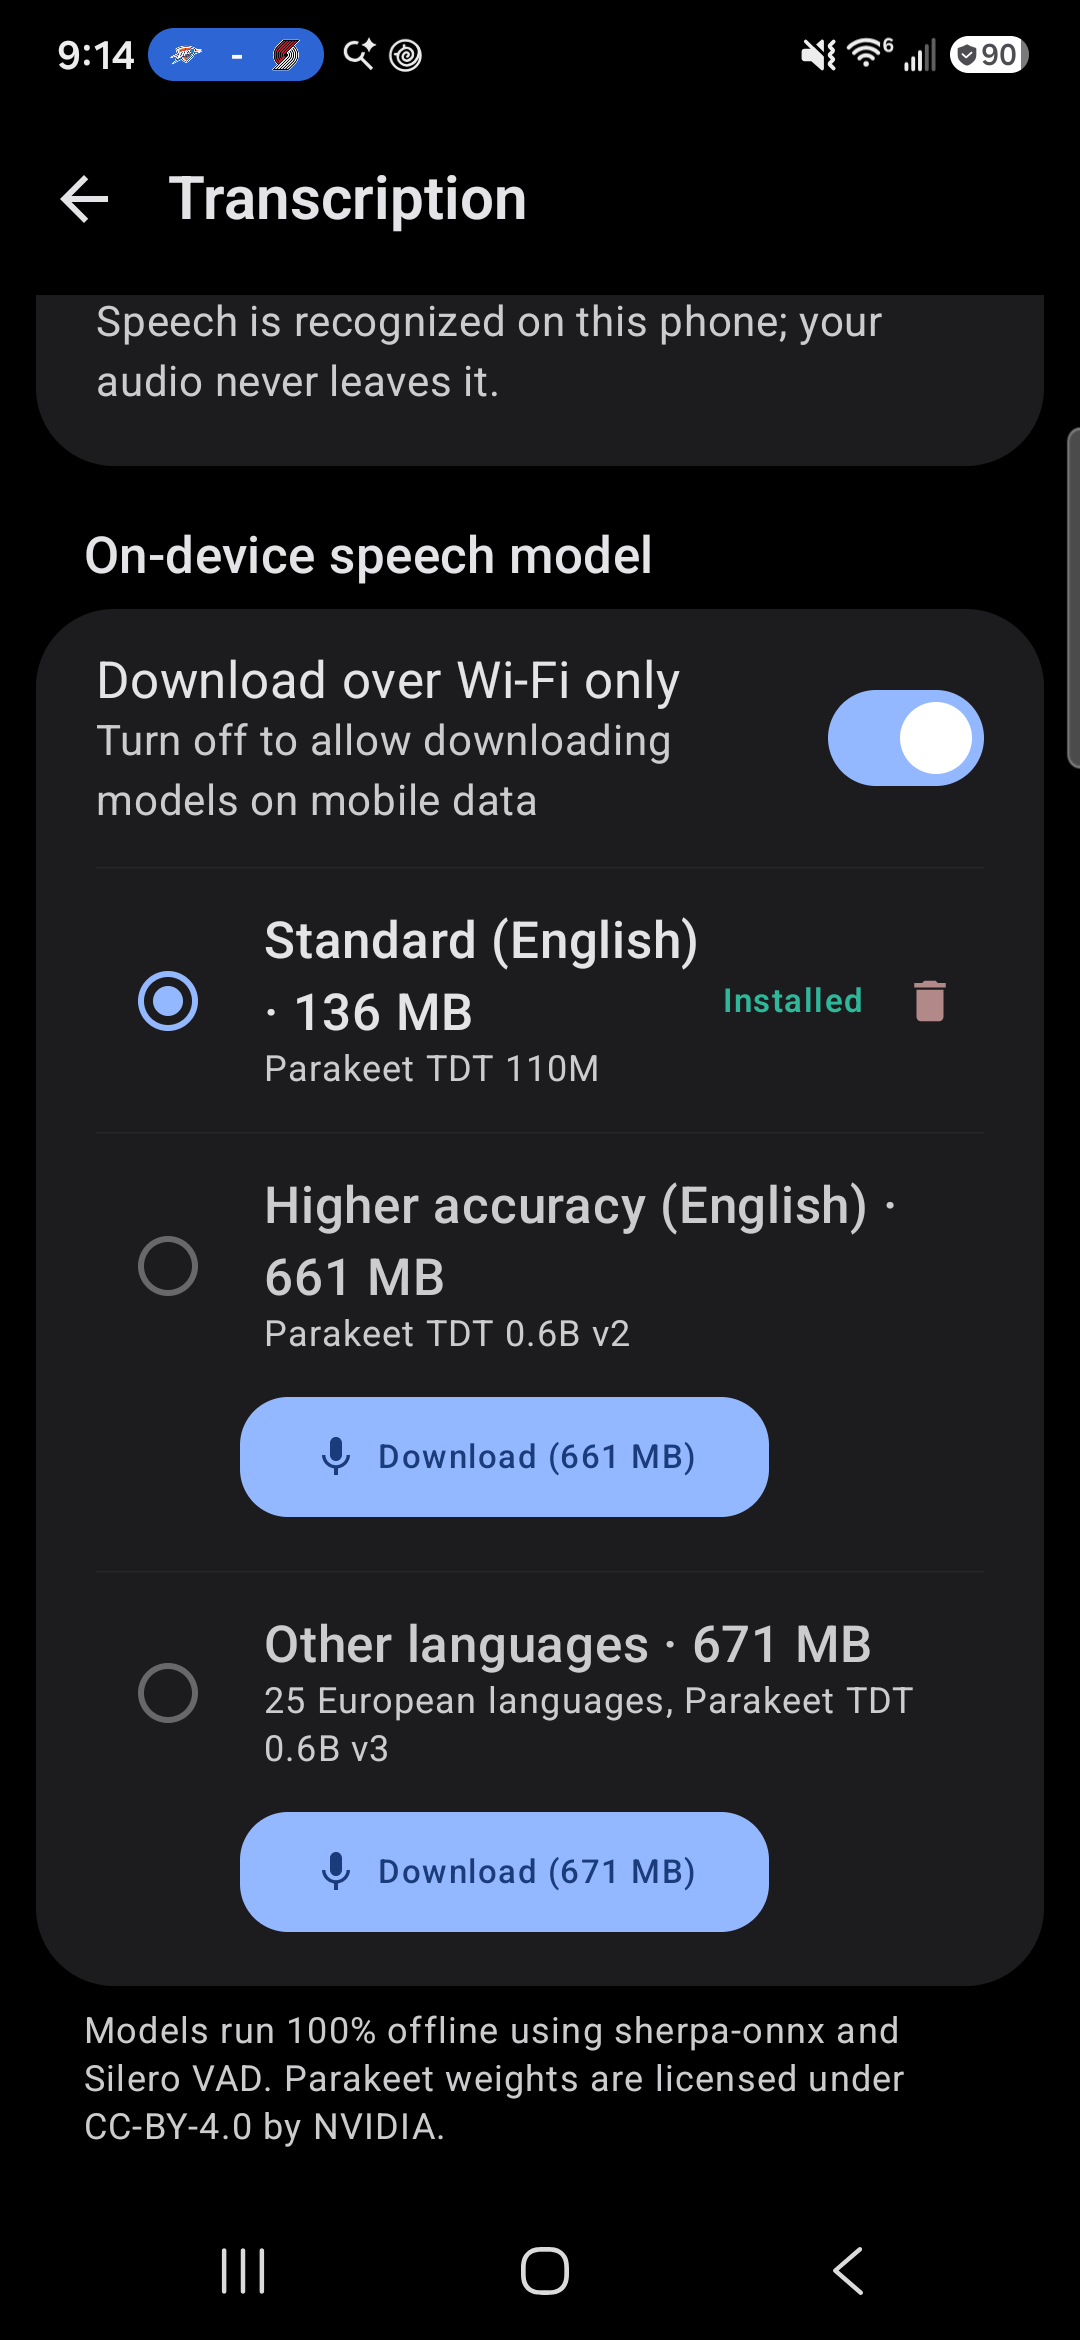
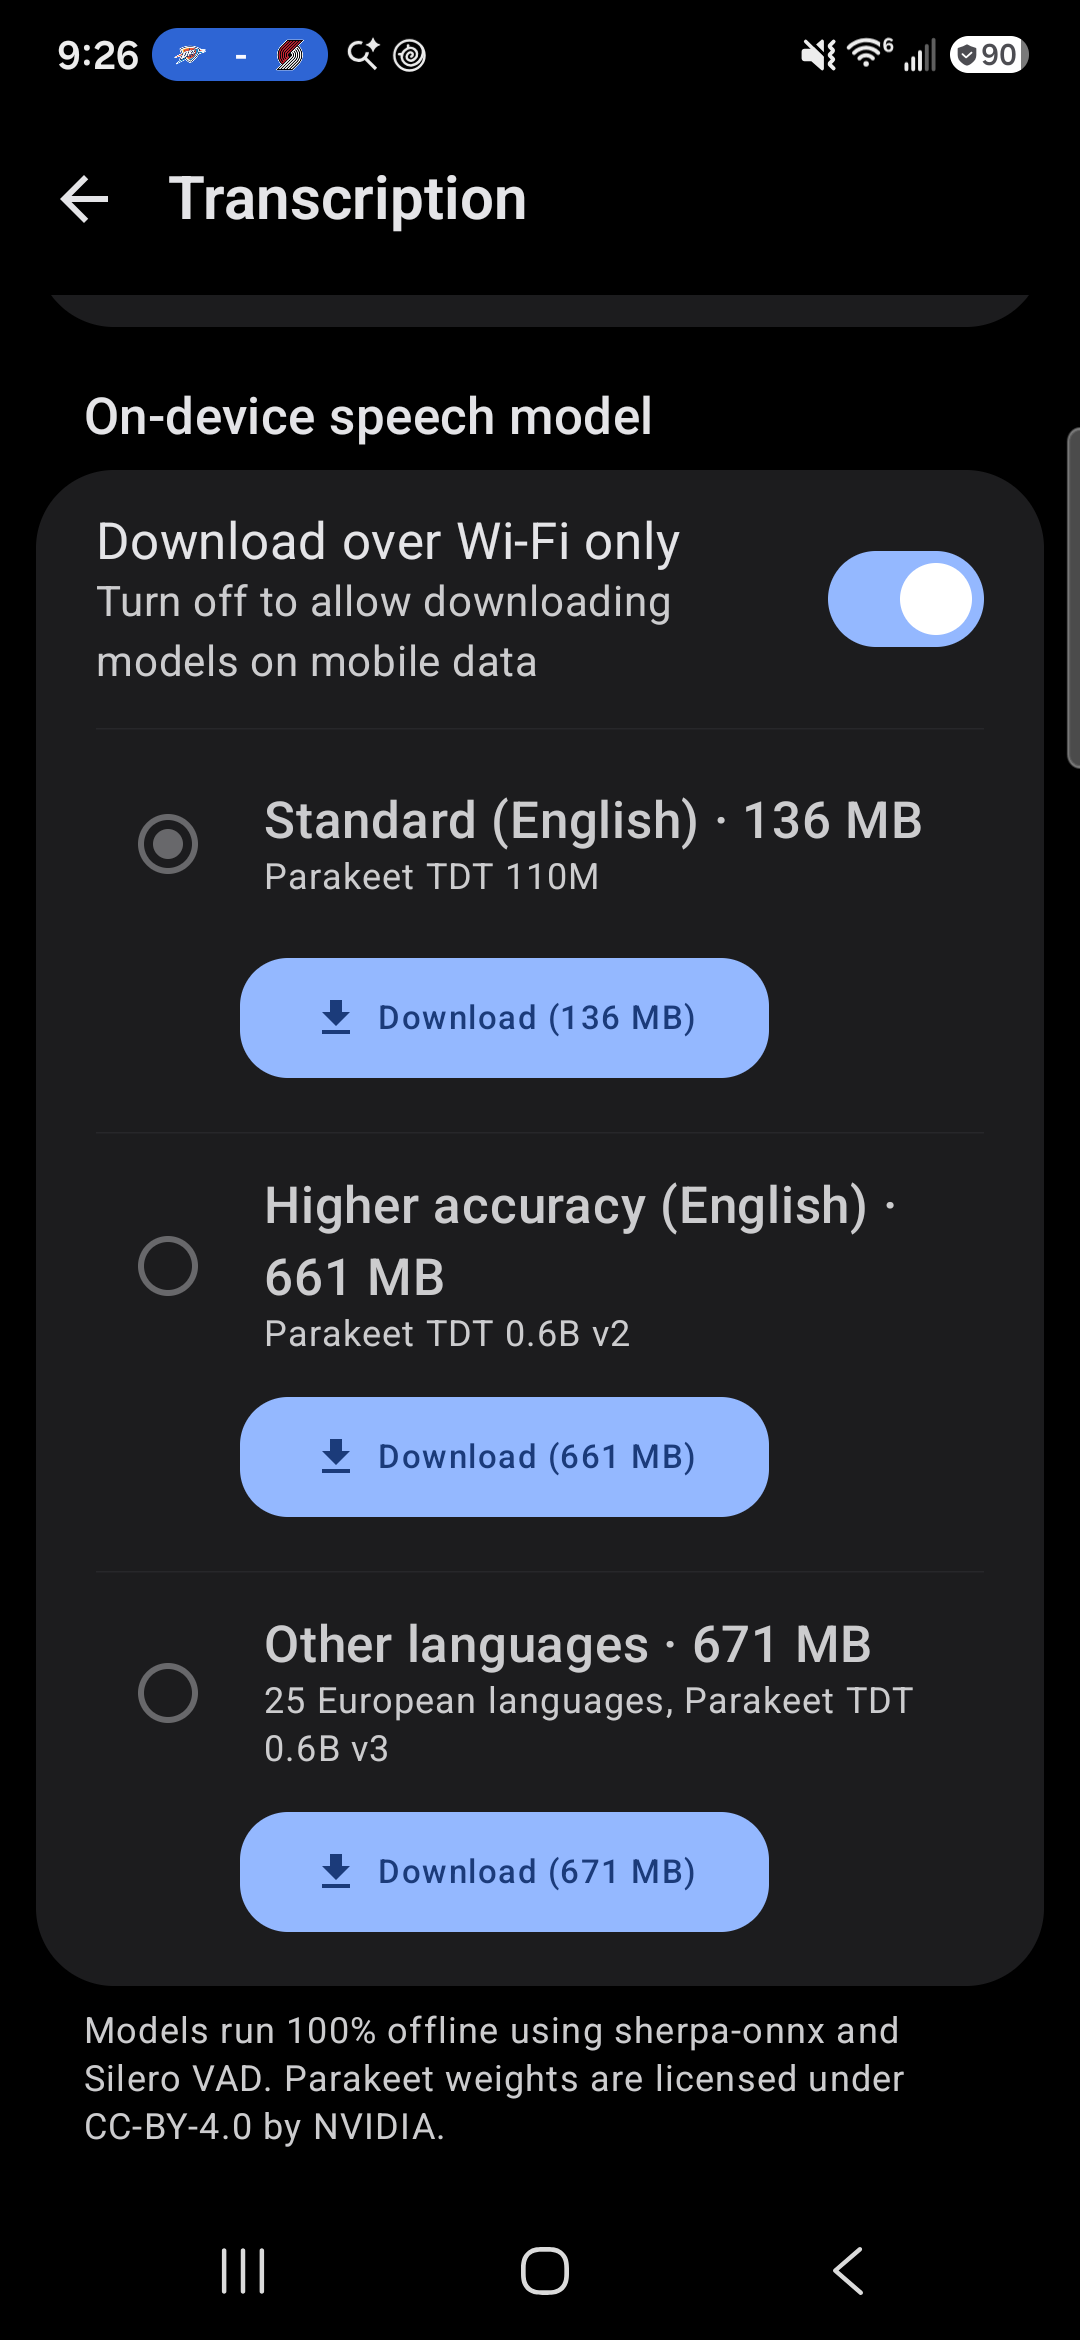
v1.3: F-35 final release fixes (versionCode 19)
- Bump versionCode to 19 (versionName 1.3.0)
- Delete practice audio recordings after transcription across all paths in IntroScreen
- Replace mic icon with dedicated ic_download vector icon on model download buttons
- Retake 06_transcription_on_device_models.png on S25 with new download icon

diff --git a/app/src/main/java/com/example/whisperremote/ui/intro/IntroScreen.kt b/app/src/main/java/com/example/whisperremote/ui/intro/IntroScreen.kt
@@ -6,6 +6,7 @@
 // Conforms to contracts/04-look-and-feel.md §4 and Play policy requirements in F-22, F-24, F-25.
 // Reason for edit: Out-of-the-box offline model download & on-device practice dictation per contract 05 §2.7.
 // Reason for edit: Branch battery optimization in Play flavor to open standard list settings without restricted REQUEST_IGNORE_BATTERY_OPTIMIZATIONS permission per F-27.
+// Reason for edit: Delete practice audio recordings after transcription per F-35.
 
 package com.example.whisperremote.ui.intro
 
@@ -720,6 +721,7 @@ fun IntroScreen(
                                                                 if (useOnDevice) {
                                                                     if (!isDefaultModelReady) {
                                                                         practiceText = "Please download the offline model above first to transcribe on this phone."
+                                                                        audioFile.delete()
                                                                     } else {
                                                                         isPracticeTranscribing = true
                                                                         practiceText = "Transcribing on this phone..."
@@ -740,6 +742,9 @@ fun IntroScreen(
                                                                                     isPracticeTranscribing = false
                                                                                     practiceText = "Transcription failed: ${e.message}"
                                                                                 }
+                                                                            } finally {
+                                                                                // Reason for edit: Delete practice recording after use per F-35
+                                                                                audioFile.delete()
                                                                             }
                                                                         }.start()
                                                                     }
@@ -752,11 +757,13 @@ fun IntroScreen(
                                                                                 isPracticeTranscribing = false
                                                                                 practiceText = result.text.ifBlank { "(No speech detected)" }
                                                                                 practiceSuccessCelebration = true
+                                                                                audioFile.delete()
                                                                             }
                                                                             is TranscriptionResult.Empty -> {
                                                                                 isPracticeTranscribing = false
                                                                                 practiceText = "(No speech detected - try speaking closer to the mic)"
                                                                                 practiceSuccessCelebration = false
+                                                                                audioFile.delete()
                                                                             }
                                                                             else -> {
                                                                                 if (isDefaultModelReady) {
@@ -777,18 +784,23 @@ fun IntroScreen(
                                                                                                 isPracticeTranscribing = false
                                                                                                 practiceText = "Transcription failed"
                                                                                             }
+                                                                                        } finally {
+                                                                                            // Reason for edit: Delete practice recording after use per F-35
+                                                                                            audioFile.delete()
                                                                                         }
                                                                                     }.start()
                                                                                 } else {
                                                                                     isPracticeTranscribing = false
                                                                                     practiceText = "Recorded ${(audioFile.length() - 44) / 1024} KB of audio!\nCould not reach server: ${(result as? TranscriptionResult.NetworkError)?.error?.localizedMessage ?: "Connection error"}"
                                                                                     practiceSuccessCelebration = true
+                                                                                    audioFile.delete()
                                                                                 }
                                                                             }
                                                                         }
                                                                     }
                                                                 }
                                                             } else {
+                                                                audioFile?.delete()
                                                                 practiceText = "Recording was too short. Tap again and speak a phrase."
                                                             }
                                                         }

diff --git a/app/src/main/java/com/example/whisperremote/ui/screens/TranscriptionScreen.kt b/app/src/main/java/com/example/whisperremote/ui/screens/TranscriptionScreen.kt
@@ -11,6 +11,7 @@
 //          4. On-device model manager (download progress, Wi-Fi only toggle, SHA-256 verification, and deletion).
 // Conforms to contracts/04-look-and-feel.md §3.2 and contract 05 §2.3 & §2.6.
 // Reason for edit: Add transcription target selector, PC fallback toggle, and on-device model download/management per contract 05 §2.3 & §2.6.
+// Reason for edit: Use ic_download vector icon for model download buttons per F-35.
 
 package com.example.whisperremote.ui.screens
 
@@ -1077,7 +1078,7 @@ fun TranscriptionScreen(
                                         },
                                         shape = RoundedCornerShape(16.dp)
                                     ) {
-                                        Icon(painter = painterResource(R.drawable.ic_mic), contentDescription = null, modifier = Modifier.size(16.dp))
+                                        Icon(painter = painterResource(R.drawable.ic_download), contentDescription = null, modifier = Modifier.size(16.dp))
                                         Spacer(modifier = Modifier.width(6.dp))
                                         Text("Download ($sizeMb MB)", style = MaterialTheme.typography.labelSmall)
                                     }

diff --git a/README.md b/README.md
@@ -30,7 +30,7 @@ No cloud lock-in, zero telemetry — run it completely on your own hardware or w
 - **Out-of-the-Box Intro Sandbox**: Interactive first-run onboarding downloading default models in-place with instant local speech transcription—no PC or cloud accounts required out of the box.
 - **Robust Fallback Retention**: Preserves audio files as pending retries when on-device fallback fails (automatically polling and sending when the PC returns), with instant phone fallback when the PC is paused or loading models.
 - **Optimized 64-bit ABI Packaging**: Streamlined native packaging (`arm64-v8a`) reducing release APK sizes by ~97 MB (from 156.8 MB down to 59.2 MB).
-- **Play Release & S25 Support**: Official `play` flavor distribution (`com.cyrus_studio.whisperunchained`, versionCode 18, versionName 1.3.0) with clean first-run intro, on-device speech model downloading, practice sandbox, and decimal MB indicators.
+- **Play Release & S25 Support**: Official `play` flavor distribution (`com.cyrus_studio.whisperunchained`, versionCode 19, versionName 1.3.0) with clean first-run intro, on-device speech model downloading, practice sandbox, and decimal MB indicators.
 
 ## What's New in v1.2 (UI Makeover + Intro Sandbox)
 
